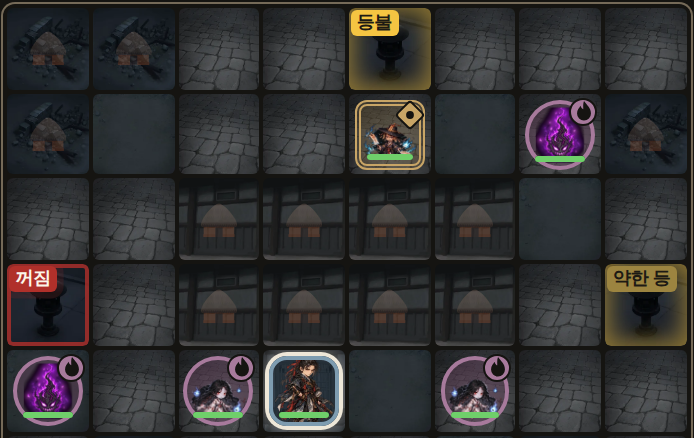
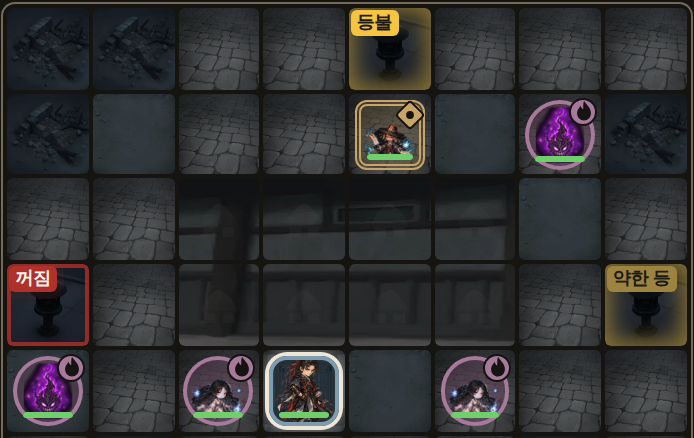
fix: [ENV-PHASE-D] 4장 최종 비주얼 수정 3건 - 4장 D 🛖 흑백·0.1(삭제 안 함), 본당 8칸은 env_block_hall 한 장을 4×2 로 펼쳐 칸마다 제 조각(가운데 가로 띠 반복 없음), env_temple_dirt 밝기 +12%·로컬 대비 약간(이음새 통과), 전/후 캡처, 1~3·5장·봉인등/귀기/조사 규칙·유닛 크기 변경 없음 (규칙 변경 없음)
Claude-Session: https://claude.ai/code/session_01EmF9GJCvFbzTipZNHHLaCs

diff --git a/joseon-exorcist/index.html b/joseon-exorcist/index.html
@@ -89,7 +89,8 @@
   .t-spring { background: var(--spring); }
   /* ENV-PHASE-A (1장만): 지형 칸 배경 그림. 그림이 없거나 실패하면 위 지형 색이 그대로 보인다 */
   .cell.env-ch1, .cell.env-ch2, .cell.env-ch3, .cell.env-ch4 { background-size: cover; background-position: center; background-repeat: no-repeat; }
-  .cell.env-ch1.t-rock .mark, .cell.env-ch2.t-rock .mark, .cell.env-ch3.t-rock .mark, .cell.env-ch4.t-rock .mark { opacity: .2; } /* 그림 속 집·바위·절벽과 🛖 이 겹쳐 보여 D 표식만 조금 옅게 (숨기지 않음). 🏮 💧 🌲 는 그대로 */
+  .cell.env-ch1.t-rock .mark, .cell.env-ch2.t-rock .mark, .cell.env-ch3.t-rock .mark { opacity: .2; } /* 그림 속 집·바위·절벽과 🛖 이 겹쳐 보여 D 표식만 조금 옅게 (숨기지 않음). 🏮 💧 🌲 는 그대로 */
+  .cell.env-ch4.t-rock .mark { opacity: .1; filter: grayscale(1) brightness(.6); } /* 4장: 🛖 의 주황 창이 봉인등 빛과 겹쳐서 색을 빼고 더 옅게 (그림 실패 대비 보조 표시로만 남김) */
   /* ENV-POLISH-A (1장 환경 칸만): 흙 그림 위에서도 이동 범위가 보이게 조금 진하게 — 공격(.38 · 주홍 2px)보다는 약하게 */
   .cell.env-ch1.hl-move::after { background: rgba(126, 156, 176, .35); box-shadow: inset 0 0 0 1px rgba(150, 182, 202, .72); }
   /* 🏮 💧 가 그림에 묻히지 않게 (표식·배경 상자는 그대로, 진하기와 그림자만) */
@@ -4264,6 +4265,10 @@ var Core = (function () {
         if (env) {
           cell.className += ' env-' + chapterId;
           cell.style.backgroundImage = 'url(' + env + ')';
+        }
+        if (env && env === ENV_ART.ch4.hall) { // 4장 본당 8칸: 같은 그림을 칸마다 반복하지 않고 4×2 에 한 장으로 펼쳐 칸마다 제 조각을 보인다
+          cell.style.backgroundSize = '400% 200%';
+          cell.style.backgroundPosition = ((c - 2) * 100 / 3).toFixed(2) + '% ' + (r - 2) * 100 + '%';
         }
         cell.dataset.r = r;
         cell.dataset.c = c;

diff --git a/joseon-exorcist/PROGRESS.md b/joseon-exorcist/PROGRESS.md
@@ -287,7 +287,14 @@
   - 확인: 343 통과 / 4장 환경 36 PASS (작업 전 `aa8b958` 대비 맵·80칸·등·지점·목표·증원·유닛 수치·크기 동일 · 같은 날씨 두 턴 AI 동일 · 봉인등/귀기/조사 표식 동일·가려지지 않음 · 배경만 있는 칸 따뜻한 빛 0%) / 이음새 판정 6개 세로·가로 통과 / 회귀 전부 FAIL 0 — QA-ENV-PHASE-D.md
   - DESIGN: 본당·폐허 위 🛖(0.2)의 주황 창 · 본당 2줄 사이 가로줄 · 흙 칸이 빈칸처럼 보임 (폰에서 판단)
   - 1장 환경 회귀 스크립트 현행화 (4장도 자기 장 환경 ch4/ 6개만)
-  - **push 1회 · production 미배포**. 커밋 1개
+  - **push 1회 · production 미배포**. 커밋 1개 (`1b325f2`)
+  - 최종 비주얼 수정 (Game Director CHANGES_REQUESTED, 3건만):
+    1. 4장 D 🛖: 0.2 → 0.1 + `grayscale(1) brightness(.6)` (4장만, 삭제 안 함. 1~3장 그대로)
+    2. 본당 8칸: 같은 그림 반복 → `env_block_hall.webp` 한 장을 4×2 로 펼쳐(`400% 200%`) 칸마다 제 조각 — 가운데 가로 띠 반복 없음
+    3. `env_temple_dirt.webp` 보정: 밝기 +12% (46.8→52.4) · 반경 6 로컬 대비 +0.4 (명암 편차 3.67→4.36) · 색·형태 그대로, 이음새 판정 통과
+    - 확인: 343 통과 / 4장 환경 38 PASS / 회귀 전부 FAIL 0 — QA-ENV-PHASE-D.md. 전/후 캡처 `qa-shots/env-phase-d/before-fix/`
+    - 남은 것: 흙 원본의 무늬가 거의 없어(편차 3.7) 보정 뒤에도 평평한 면에 가깝다 (새 그림 금지라 약한 보정까지만)
+    - **push 1회 · production 미배포**. 커밋 1개
 
 ## 다음에 진행할 작업
 - **5장 기획자 본인 플레이** (시험판 [🧪 5장 바로 시험]) — 기획서 네 질문으로 관찰. 그 결과를 보고 기획자가 배포·수치 조정 결정
@@ -333,7 +340,7 @@
 - 2026-09-25 기획자가 게시 링크로 직접 플레이 → "일단 OK". 위 세부 화면 항목별 의견과 난이도 판단은 아직 받지 않았다
 
 ## 사람이 확인할 것 (화면)
-- [ENV-PHASE-D] 폰에서 4장이 3장 산길이 아니라 폐사찰로 보이는가 / 봉인등 켜짐·약한 등·꺼짐이 바로 구별되는가 / 본당 벽·폐허 위 🛖(0.2) 의 주황 창이 봉인등과 겹쳐 보이지 않는가 / 본당 2줄이 한 덩어리로 읽히는가
+- [ENV-PHASE-D] 폰에서 4장이 3장 산길이 아니라 폐사찰로 보이는가 / 봉인등 켜짐·약한 등·꺼짐이 바로 구별되는가 / 본당 4×2 가 한 건물로 읽히는가 (가로로 늘린 그림이 어색하지 않은가) / 흙 칸이 빈칸처럼 보이지 않는가
 - [ENV-PHASE-C] 폰에서 3장 조사 지점 흔적(금줄·돌)이 돋보기보다 튀지 않는가 / 봉인 뒤 돌 흔적이 빛나는 제단처럼 보이지 않는가 / 원귀가 안개 절벽에서 보이는가
 - [ENV-PHASE-B] 폰에서 2장 유닛이 밝은 산길 배경보다 먼저 보이는가 / 이동 범위가 흙길·숲 위에서 보이는가 / 오른쪽 위 탈출로가 달래의 목적지로 읽히는가
 - [ENV-PHASE-A] 폰에서 1장 유닛이 배경보다 먼저 보이는가 / 이동 범위(옅은 청회색)가 흙 그림 위에서 충분히 보이는가 / 칸 사이 세로 줄무늬가 거슬리는가

diff --git a/joseon-exorcist/QA-ENV-PHASE-D.md b/joseon-exorcist/QA-ENV-PHASE-D.md
@@ -39,3 +39,11 @@
 - 본당 벽 그림 아래쪽 밝은 바닥 띠 때문에 본당 2줄 사이에 가로줄이 보여, 한 덩어리보다 "두 줄 건물"로 읽힐 수 있음
 - 흙·이끼 칸(`env_temple_dirt`)은 거의 무늬 없는 어두운 면이라 돌바닥 사이에서 빈칸처럼 보일 수 있음
 - 약화 등(동쪽)의 표식 글자 "약한 등"이 "등불"보다 넓어, 칸 빛 양으로는 동쪽이 북쪽보다 약간 더 밝게 잡힘 (기존 표식 그대로 — 변경 안 함)
+
+## 최종 비주얼 수정 (Game Director CHANGES_REQUESTED — 3건만)
+1. **4장 D 🛖**: `.cell.env-ch4.t-rock .mark` 만 0.2 → **0.1 + grayscale(1) brightness(.6)**. 18개 모두 남음(삭제 안 함). 1~3장 D 표식 규칙은 그대로
+2. **본당 8칸**: `env_block_hall.webp` 를 칸마다 반복하던 것을, 4×2 블록 전체에 한 장으로 펼침 — 본당 칸만 `background-size: 400% 200%` · 위치 가로 0/33.33/66.67/100% · 세로 0/100%. 가운데 가로 띠 반복 사라짐. 본당 밖 72칸은 cover·가운데 그대로. 새 문·빛·문양 없음 (가로로 2배 늘어난 그림)
+3. **`env_temple_dirt.webp` 약한 보정** (새 그림 아님): 밝기 ×1.12 (평균 46.8 → 52.4) · 반경 6 흐림과의 차이 ×0.4 (명암 편차 3.67 → 4.36). 가장자리 감싸는 흐림으로 이음새 없음 — 판정기 세로·가로 통과 · 따뜻한/보라 픽셀 0%
+- 결과: `node --test` 343 통과 · 4장 환경 **PASS 38 · FAIL 0** (위 36 + 본당 조각 · 본당 밖 그대로, 🛖 판정 갱신) · 1~5장 회귀 전부 FAIL 0 · core 차이 없음
+- 전/후 캡처: `before-fix/` (수정 전 `1b325f2`) ↔ 같은 이름 새 캡처. `x-hall-block` (본당 둘레) · `x-dirt-cells` (흙 칸) 비교 추가
+- 남은 판단: 흙 원본 무늬가 거의 없어(편차 3.7) 보정 뒤에도 평평한 어두운 면에 가깝다. 새 그림이 금지라 약한 보정까지만 함
